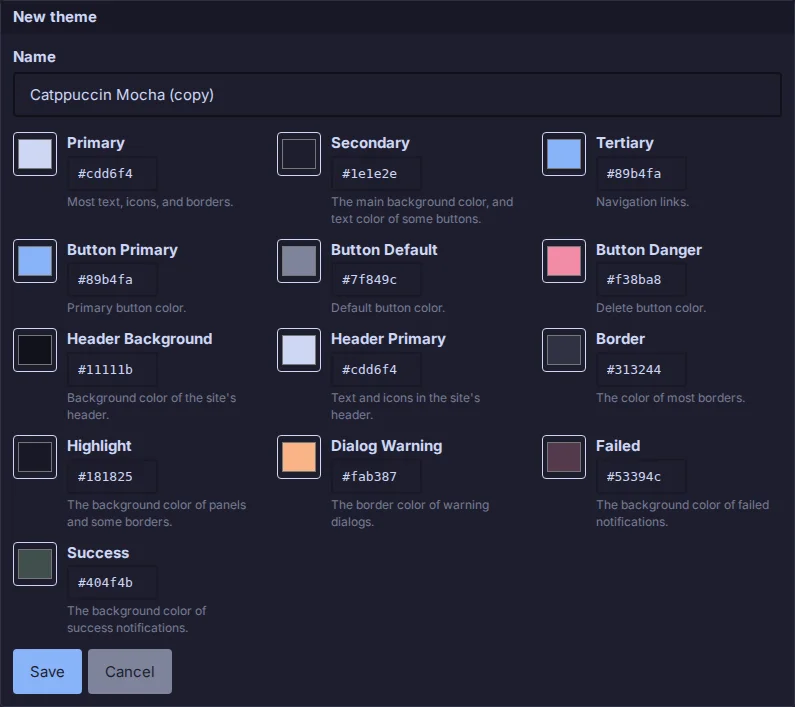
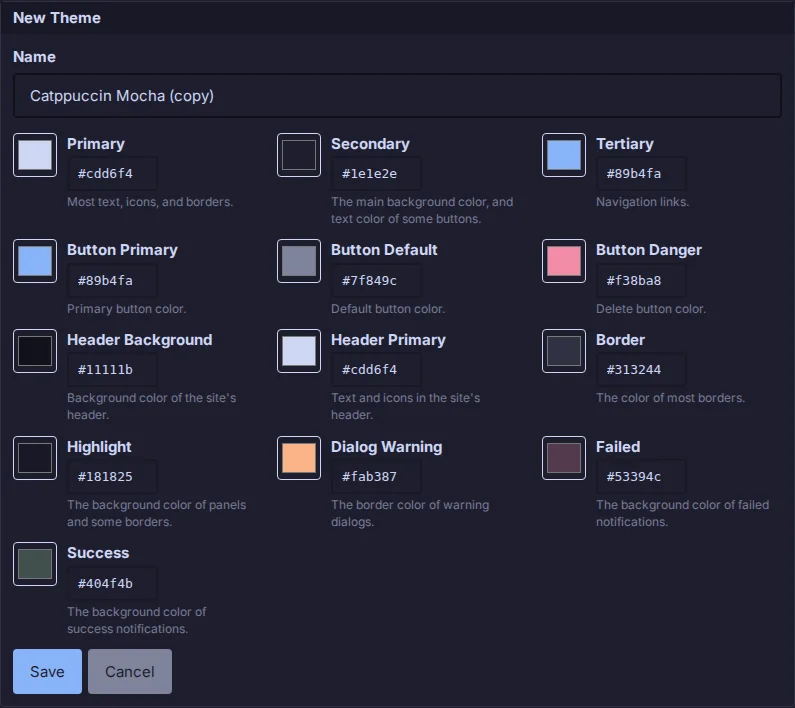
Settings > Themes: My Themes buttons on the left above the heading; names in Title Case
New Theme, Import and Export move above the My Themes heading, left-aligned. My themes, New theme and
Edit theme become My Themes, New Theme and Edit Theme, and CLAUDE.md records Title Case for names in the UI.

diff --git a/tweakui/templates/settings.html b/tweakui/templates/settings.html
@@ -99,7 +99,7 @@ Colours come only from WebODM's theme classes; Themes has a sample of controls i
                 <div class="tweakui-theme-groups" role="radiogroup" aria-label="{% trans "Themes" %}">
                     {% comment %}The swatches show each theme's own colours: its background, text, links, buttons and header. Copy
                     opens the editor (theme_editor.js) on a copy of any theme; only your own themes have Edit. Published
-                    (only when an administrator has published any) sits between the presets and My themes.{% endcomment %}
+                    (only when an administrator has published any) sits between the presets and My Themes.{% endcomment %}
                     {% for group in theme_groups %}
                     {% if group.id == "published" %}
                     <div class="tweakui-themes-heading">
@@ -107,15 +107,15 @@ Colours come only from WebODM's theme classes; Themes has a sample of controls i
                         <span class="text-muted">{% trans "From your administrator" %}</span>
                     </div>
                     {% elif group.id == "own" %}
-                    <div class="tweakui-themes-heading">
-                        <h5 id="tweakui-themes-{{ group.id }}">{{ group.title }}</h5>
+                    <div class="tweakui-themes-heading tweakui-themes-heading-stacked">
                         <span class="tweakui-themes-buttons">
-                            <button type="button" class="btn btn-primary btn-sm" data-theme-action="new"><i class="fa fa-plus"></i> {% trans "New theme" %}</button>
+                            <button type="button" class="btn btn-primary btn-sm" data-theme-action="new"><i class="fa fa-plus"></i> {% trans "New Theme" %}</button>
                             <button type="button" class="btn btn-default btn-sm" data-theme-action="import"><i class="fa fa-upload"></i> {% trans "Import" %}</button>
                             {% if group.themes %}<a class="btn btn-default btn-sm" href="{{ api }}themes/export" download><i class="fa fa-download"></i> {% trans "Export" %}</a>{% endif %}
                         </span>
+                        <h5 id="tweakui-themes-{{ group.id }}">{{ group.title }}</h5>
                     </div>
-                    {% if not group.themes %}<p class="text-muted tweakui-themes-empty">{% trans "None yet: New theme starts one from the current theme, Copy from any theme." %}</p>{% endif %}
+                    {% if not group.themes %}<p class="text-muted tweakui-themes-empty">{% trans "None yet: New Theme starts one from the current theme, Copy from any theme." %}</p>{% endif %}
                     {% endif %}
                     <div class="tweakui-themes" data-group="{{ group.id }}"{% if group.title %} role="group" aria-labelledby="tweakui-themes-{{ group.id }}"{% endif %}>
                         {% for theme in group.themes %}
@@ -140,7 +140,7 @@ Colours come only from WebODM's theme classes; Themes has a sample of controls i
                 {% comment %}The theme editor (theme_editor.js): a name and WebODM's 13 theme colours, in Administration > Theme's
                 order; while it is open the page shows the unsaved colours{% endcomment %}
                 <div class="tweakui-group theme-border tweakui-editor" hidden>
-                    <h5 class="theme-background-highlight" id="tweakui-editor-title">{% trans "New theme" %}</h5>
+                    <h5 class="theme-background-highlight" id="tweakui-editor-title">{% trans "New Theme" %}</h5>
                     <form class="tweakui-editor-form" aria-labelledby="tweakui-editor-title" novalidate>
                         <div class="form-group">
                             <label for="tweakui-editor-name">{% trans "Name" %}</label>

diff --git a/tweakui/public/__tests__/theme_editor.test.js b/tweakui/public/__tests__/theme_editor.test.js
@@ -16,7 +16,7 @@ function page(checked) {
     document.body.innerHTML = `
       <div id="tweakui-settings" data-api="/api/plugins/tweakui/">
         <input type="hidden" name="csrfmiddlewaretoken" value="tok">
-        <button type="button" data-theme-action="new">New theme</button>
+        <button type="button" data-theme-action="new">New Theme</button>
         <button type="button" data-theme-action="import">Import</button>
         ${Object.keys(THEMES).map(theme).join("")}
         <div class="tweakui-editor" hidden><h5 id="tweakui-editor-title"></h5>
@@ -60,7 +60,7 @@ test("Copy opens the editor on a copy of any theme, without Delete, and shows it
     const {win} = start("webodm", previewing);
     el('[data-theme-id=nord] [data-theme-action=copy]').click();
     expect(el(".tweakui-editor").hidden).toBe(false);
-    expect(el("#tweakui-editor-title").textContent).toBe("New theme");
+    expect(el("#tweakui-editor-title").textContent).toBe("New Theme");
     expect(el("#tweakui-editor-name").value).toBe("Nord (copy)");
     expect(hex("secondary").value).toBe("#2e3440");
     expect(picker("secondary").value).toBe("#2e3440");
@@ -75,7 +75,7 @@ test("Copy opens the editor on a copy of any theme, without Delete, and shows it
     expect(el("link").disabled).toBe(true);
 });
 
-test("New theme starts from the current theme's colours with no name", () => {
+test("New Theme starts from the current theme's colours with no name", () => {
     start("own:abc", previewing);
     el("[data-theme-action=new]").click();
     expect(el("#tweakui-editor-name").value).toBe("");
@@ -88,7 +88,7 @@ test("only your own themes open for editing, with their name and Delete", () => 
     expect(editor.open(state, "edit", "nord")).toBe(false);
     expect(el(".tweakui-editor").hidden).toBe(true);
     el('[data-theme-id="own:abc"] [data-theme-action=edit]').click();
-    expect(el("#tweakui-editor-title").textContent).toBe("Edit theme");
+    expect(el("#tweakui-editor-title").textContent).toBe("Edit Theme");
     expect(el("#tweakui-editor-name").value).toBe("Mine");
     expect(el("[data-editor=delete]").hidden).toBe(false);
     expect(state.editing).toBe("abc");

diff --git a/tweakui/public/theme_editor.js b/tweakui/public/theme_editor.js
@@ -1,4 +1,4 @@
-// Settings > Themes: the theme editor (templates/settings.html). New theme (from the current theme), Copy (any
+// Settings > Themes: the theme editor (templates/settings.html). New Theme (from the current theme), Copy (any
 // theme) or Edit (your own themes only) opens it under the themes, with a name and WebODM's 13 theme colours, each a
 // colour picker and its #rrggbb value. While it is open the page shows the unsaved colours: the server renders their
 // stylesheet (themes/preview), which takes the place of theme.css until Cancel. Save keeps the theme and makes it
@@ -122,7 +122,7 @@
         var source = action === "new" ? currentTheme(state) : id, theme = state.themes[source];
         if (!theme || (action === "edit" && source.indexOf(OWN) !== 0)) return false;
         state.editing = action === "edit" ? source.slice(OWN.length) : null;
-        state.editor.querySelector("#tweakui-editor-title").textContent = action === "edit" ? "Edit theme" : "New theme";
+        state.editor.querySelector("#tweakui-editor-title").textContent = action === "edit" ? "Edit Theme" : "New Theme";
         state.editor.querySelector("#tweakui-editor-name").value = action === "edit" ? theme.name
             : action === "copy" ? theme.name + " (copy)" : "";
         state.editor.querySelector("[data-editor=delete]").hidden = action !== "edit";

diff --git a/tweakui/public/main.css b/tweakui/public/main.css
@@ -34,6 +34,9 @@ html.tweakui #side-menu > li:has(> a[href="/plugins/tweakui/"]):not(.tweakui-men
 .tweakui-settings .tweakui-themes-heading { display: flex; flex-wrap: wrap; align-items: center; justify-content: space-between; gap: 8px; margin: 20px 0 8px; }
 .tweakui-settings .tweakui-themes-heading h5 { margin: 0; font-weight: bold; white-space: nowrap; }
 .tweakui-settings .tweakui-themes-buttons { display: flex; flex-wrap: wrap; justify-content: flex-end; gap: 6px; }
+/* My Themes: its buttons on the left, above the heading */
+.tweakui-settings .tweakui-themes-heading-stacked { flex-direction: column; align-items: flex-start; }
+.tweakui-settings .tweakui-themes-heading-stacked .tweakui-themes-buttons { justify-content: flex-start; }
 .tweakui-settings .tweakui-import-text { font-family: monospace; font-size: 12px; resize: vertical; }
 .tweakui-settings .tweakui-import-report p, .tweakui-settings .tweakui-import-report ul { margin: 0 0 6px; }
 .tweakui-settings .tweakui-import code { white-space: normal; }

diff --git a/tweakui/public/theme_menu.js b/tweakui/public/theme_menu.js
@@ -1,7 +1,7 @@
 // The header's theme menu (unless Settings > Themes turns it off): a paintbrush left of the user icon opens a list of the themes (window.TweakUI.themes,
 // from settings.js): the current one, WebODM's theme, then the others. Choosing one saves it as the user's theme,
 // the same setting as Settings > Themes, and reloads the page in it. Bootstrap's dropdown (jQuery's data API)
-// opens and closes the menu. The user's own themes (Settings > Themes > My themes) come after the presets. UMD, so Jest can load it.
+// opens and closes the menu. The user's own themes (Settings > Themes > My Themes) come after the presets. UMD, so Jest can load it.
 (function (root, factory) {
     var api = factory();
     if (typeof module === "object" && module.exports) module.exports = api;

diff --git a/tweakui/templates/published.html b/tweakui/templates/published.html
@@ -45,7 +45,7 @@ come only from WebODM's theme classes; the swatches show each theme's own.{% end
                 <button type="submit" class="btn btn-primary"><i class="fa fa-share"></i> {% trans "Publish" %}</button>
             </div>
             {% else %}
-            <p class="text-muted">{% blocktrans %}You have no themes of your own yet: make one in <a href="/plugins/tweakui/#themes">TweakUI &gt; Themes</a>, under My themes.{% endblocktrans %}</p>
+            <p class="text-muted">{% blocktrans %}You have no themes of your own yet: make one in <a href="/plugins/tweakui/#themes">TweakUI &gt; Themes</a>, under My Themes.{% endblocktrans %}</p>
             {% endif %}
         </form>
     </div>

diff --git a/tweakui/templates/import_panel.html b/tweakui/templates/import_panel.html
@@ -1,4 +1,4 @@
-{% load i18n %}{% comment %}Import (theme_editor.js): a JSON file or text of one theme or a list, into My themes (target "own",
+{% load i18n %}{% comment %}Import (theme_editor.js): a JSON file or text of one theme or a list, into My Themes (target "own",
 Settings > Themes) or the published themes (target "published", Administration > TweakUI Themes){% endcomment %}
 <div class="tweakui-group theme-border tweakui-import" data-import-path="{% if target == "published" %}published{% else %}themes{% endif %}/import" hidden>
     <h5 class="theme-background-highlight" id="tweakui-import-title">{% trans "Import themes" %}</h5>

diff --git a/tweakui/themes.py b/tweakui/themes.py
@@ -126,11 +126,11 @@ def theme_list(user=None, with_colors=False):
 
 def groups(user):
     """The Themes list's groups: WebODM's theme and the presets, the published themes (only when there are any),
-    then the user's own (always shown, with New theme)"""
+    then the user's own (always shown, with New Theme)"""
     themes = theme_list(user)
     out = [{"id": "builtin", "title": "", "themes": [t for t in themes if t["group"] == "builtin"]},
            {"id": "published", "title": _("Published"), "themes": [t for t in themes if t["group"] == "published"]},
-           {"id": "own", "title": _("My themes"), "themes": [t for t in themes if t["group"] == "own"]}]
+           {"id": "own", "title": _("My Themes"), "themes": [t for t in themes if t["group"] == "own"]}]
     return [g for g in out if g["themes"] or g["id"] != "published"]
 
 

diff --git a/tweakui/custom_themes.py b/tweakui/custom_themes.py
@@ -1,5 +1,5 @@
 """
-Custom themes: each user's own themes (Settings > Themes > My themes), a list of {id, name, colors} in their data
+Custom themes: each user's own themes (Settings > Themes > My Themes), a list of {id, name, colors} in their data
 store, and the published themes every user sees (Administration > TweakUI Themes, superusers only), a list alike in
 the plugin's global data store. Every theme written is checked here first: its colours go into CSS
 (themes.colors_css).

diff --git a/tweakui/tests/test_tweakui.py b/tweakui/tests/test_tweakui.py
@@ -463,7 +463,7 @@ class TestCustomThemes(TweakUITestCase):
 
     def test_the_themes_section_lists_my_themes_with_edit_and_every_theme_with_copy(self):
         res = self.client.get("/plugins/tweakui/")
-        self.assertContains(res, "My themes")
+        self.assertContains(res, "My Themes")
         self.assertContains(res, 'data-theme-action="new"')
         self.assertContains(res, "None yet")
         self.assertContains(res, 'data-theme-action="copy"', count=12)

diff --git a/docs/themes.md b/docs/themes.md
@@ -7,11 +7,11 @@ Administration > Theme) or one of 11 presets: Catppuccin Latte, Frappé, Macchia
 Dark; Dracula; Nord; Gruvbox Dark and Light; One Dark. Each shows a swatch of its colours; choosing one reloads the
 page in it.
 
-## My themes
+## My Themes
 
 ![The theme editor on a copy of Catppuccin Mocha](../tweakui/public/previews/theme-editor.webp)
 
-Your own themes, listed under **My themes** below the presets, for you only. **New theme** starts one from your
+Your own themes, listed under **My Themes** below the presets, for you only. **New Theme** starts one from your
 current theme's colours, and **Copy** beside any theme (WebODM's, a preset or one of your own) starts one from that
 theme's. Only your own themes have **Edit**: WebODM's theme and the presets can be copied but not changed.
 
@@ -39,7 +39,7 @@ Administration > Theme, and a file can hold one theme or a list of them.
   "dialog_warning": "#d08770", "failed": "#523f4a", "success": "#4b5653"}}
 ```
 
-- **Export**, beside New theme, downloads all your themes as `tweakui-themes.json`; the download button on one of
+- **Export**, beside New Theme, downloads all your themes as `tweakui-themes.json`; the download button on one of
   your themes downloads just it.
 - **Copy JSON** beside any theme (WebODM's, a preset or your own) puts it on the clipboard, to paste into a
   message or another WebODM's Import.
@@ -52,14 +52,14 @@ Administration > Theme, and a file can hold one theme or a list of them.
 
 ![Administration > TweakUI Themes with two published themes](../tweakui/public/previews/theme-published.webp)
 
-Themes an administrator gives every user. They're listed under **Published**, between the presets and My themes,
+Themes an administrator gives every user. They're listed under **Published**, between the presets and My Themes,
 only when there are any. Everyone can choose one, **Copy** it into a theme of their own, or **Copy JSON** it, but
 nobody can change it there. If a published theme you're using is deleted, you're back on WebODM's theme.
 
 Superusers manage them in **Administration > TweakUI Themes**, a link TweakUI adds after Administration > Theme in
 the side menu (other staff don't see it, and the page and its API refuse them):
 
-- **Publish one of your themes**: choose one of your own themes (make it in Settings > Themes > My themes) and
+- **Publish one of your themes**: choose one of your own themes (make it in Settings > Themes > My Themes) and
   **Publish**. Every user gets a copy, so later changes to your theme aren't published until you publish it again. A
   published theme with the same name is replaced, and users who chose it keep it.
 - **Import** takes a file or pasted JSON, as under [Import and export](#import-and-export), into the published

diff --git a/CHANGELOG.md b/CHANGELOG.md
@@ -10,10 +10,10 @@
   (8/13): Texturing"). Each part can be turned off on its own.
 - Themes: each user picks WebODM's theme or one of 11 presets (Catppuccin ×4, Solarized ×2, Dracula, Nord,
   Gruvbox ×2, One Dark), applied through WebODM's own theme template.
-- Themes > My themes: each user's own themes; New theme (from the current theme) or Copy (any theme) opens an
+- Themes > My Themes: each user's own themes; New Theme (from the current theme) or Copy (any theme) opens an
   editor of WebODM's 13 theme colours, which the page previews before Save; Edit and Delete on your own themes.
   They are also in the header's theme menu.
-- Themes > My themes: Import (a JSON file or pasted text of one theme or a list; a theme with the name of one of
+- Themes > My Themes: Import (a JSON file or pasted text of one theme or a list; a theme with the name of one of
   yours replaces it; a report of what was added, replaced and refused), Export (all your themes, or one), and Copy
   JSON on every theme.
 - Administration > TweakUI Themes (superusers only, linked after Administration > Theme): publish a copy of one
